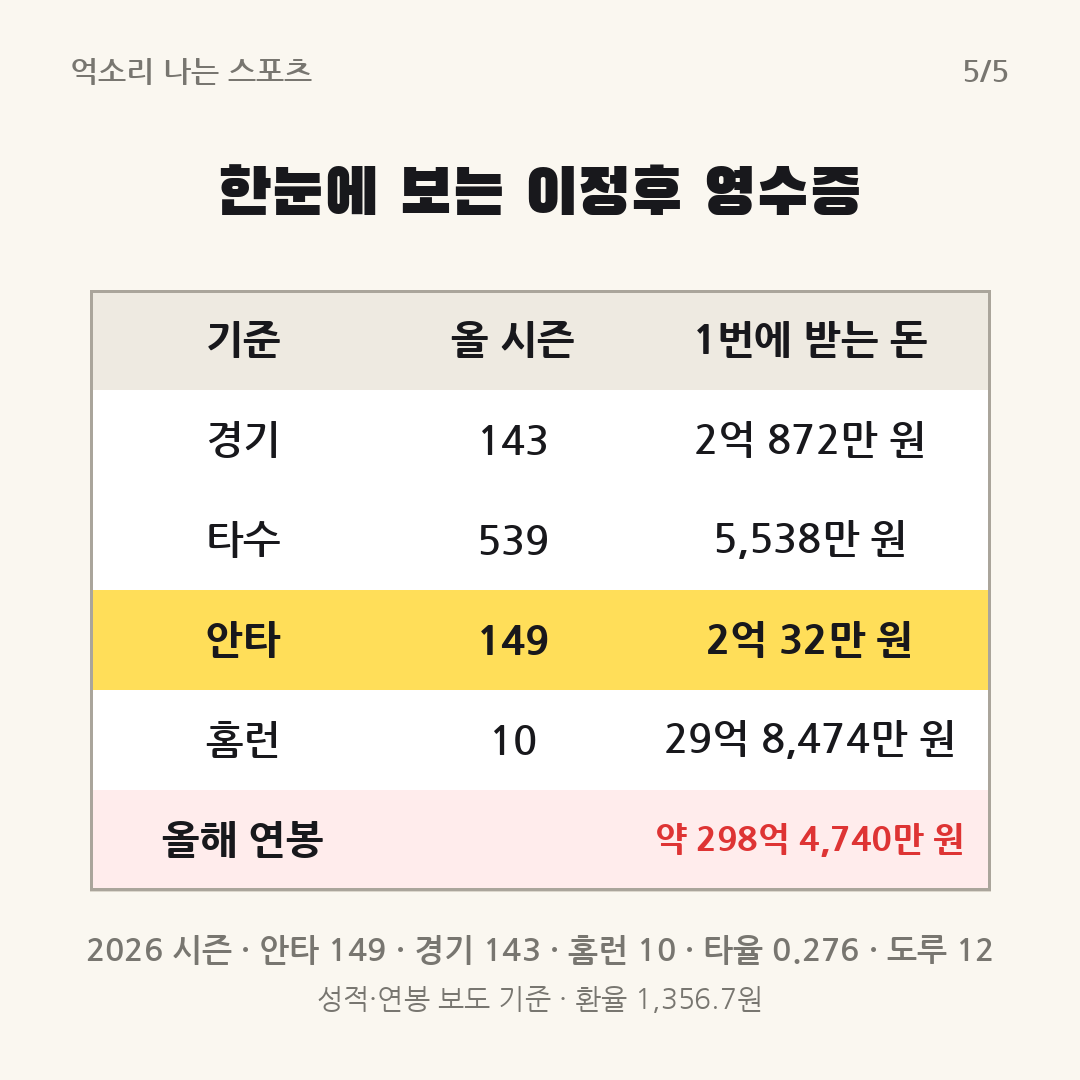
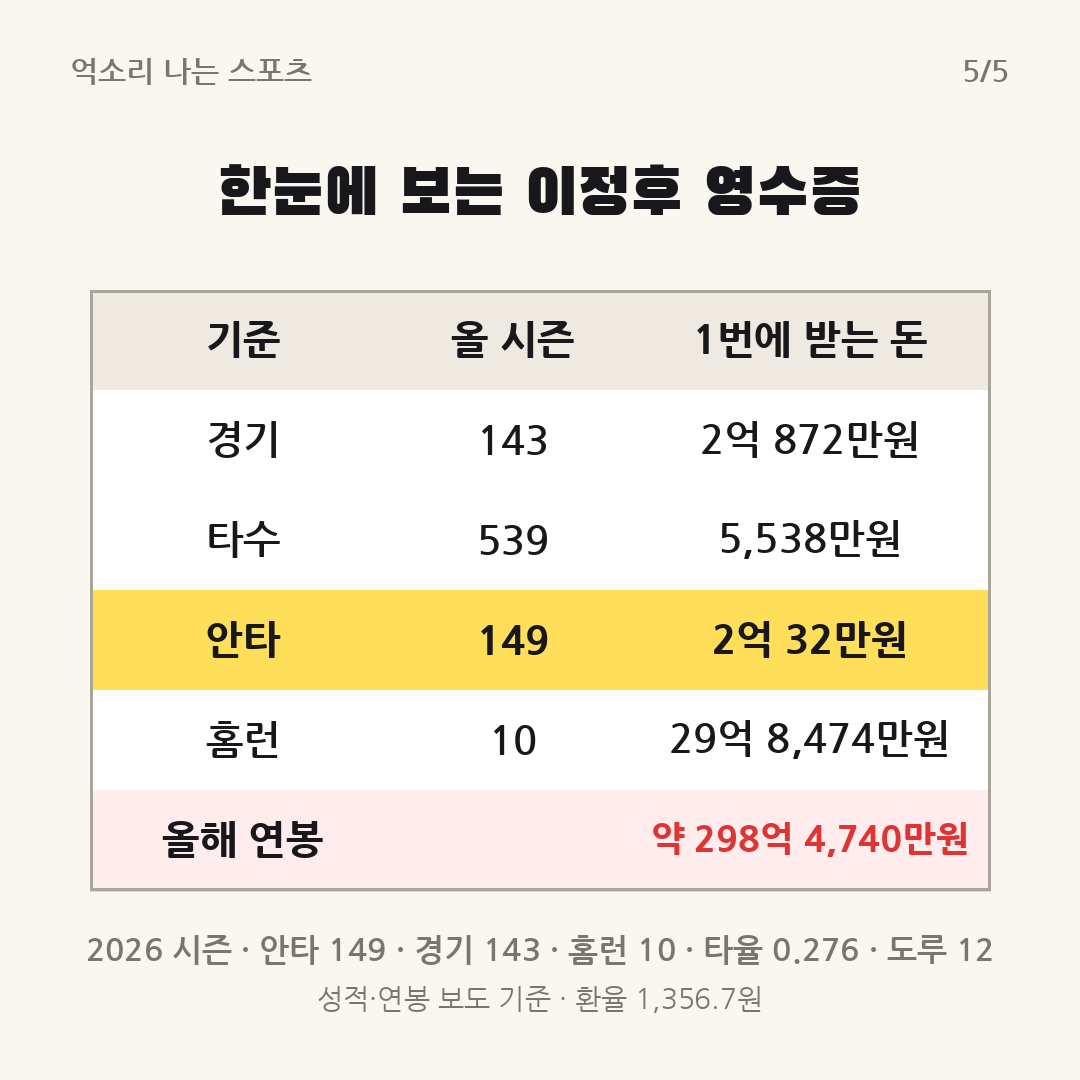
제목: 짧은 이름 + 숫자 후킹 (25자), 금액 붙여 쓰기, 짧은 이름 통일 (대표 결정)
- won(): '9,045만원', '27억원', '2억 32만원' (억원·만원 붙여 씀), 썸네일·카드 전부 적용
- 제목 규칙·check_titles: 짧은 이름으로 시작, 추천 제목에 숫자 필수, 썸네일 금액 되풀이 금지, 25자
- short_name: 대기열·새 주제 스키마·data에 추가, 썸네일·퀴즈·표 카드도 짧은 이름
- 오타니 ★ '오타니 9,496억 계약인데 올해 27억?', 이정후 ★ '이정후 298억, 시즌 끝나도 다 받을까?'
- DECISIONS·스킬·테스트 반영

Claude-Session: https://claude.ai/code/session_01HNJTaMMcXgMjQhv2iW7WGc

diff --git a/content/sample_post.py b/content/sample_post.py
@@ -14,7 +14,7 @@ class FakeNewsHub:
         base = [
             ("2026-09-28", "시즌 결산 기사", "올 시즌 30경기 150이닝 10승 140탈삼진"),
             ("2026-09-20", "중간 기사", "29경기 145이닝 9승 135탈삼진"),
-            ("2026-09-25", "계약 기사", "올해 연봉 20억 원"),
+            ("2026-09-25", "계약 기사", "올해 연봉 20억원"),
             ("2026-09-29", "환율 기사", "원달러 환율 1,350.0원 마감"),
         ]
         return [{"title": f"[예시] {query} {t}", "description": desc, "link": f"https://example.com/{abs(hash(query)) % 999}/{i}",
@@ -59,10 +59,10 @@ class FakeClaude:
                     "[이미지 5_한눈에표: card_table.png]\n\n올 시즌 성적은 이랬어요." +
                     "\n\n생각보다 크죠? 내년에는 어떨까요?\n\n기준: 예시 데이터예요. 실제 선수·실제 숫자가 아니에요.")
             return {"gate_pass": True, "info_gain": "예시: 새로 계산한 숫자",
-                    "titles": [{"text": f"1승에 {win} (예시)", "type": "숫자형"},
-                               {"text": "한 경기에 얼마? (예시)", "type": "질문형"},
-                               {"text": "최저임금과 비교하면 (예시)", "type": "대비형"},
-                               {"text": "몸값 순위 (예시)", "type": "순위형"},
-                               {"text": "부진했는데 연봉은? (예시)", "type": "반전형"}],
+                    "titles": [{"text": f"예시선수 1승에 {win} (예시)", "type": "숫자형"},
+                               {"text": "예시선수 한 경기에 얼마? (예시)", "type": "질문형"},
+                               {"text": "예시선수 최저임금과 비교 (예시)", "type": "대비형"},
+                               {"text": "예시선수 몸값 순위 (예시)", "type": "순위형"},
+                               {"text": "예시선수 20억 받고 10승? (예시)", "type": "반전형"}],
                     "recommended": 5, "body": body, "tags": ["예시선수", "예시"], "cross_compare": "없음 (예시)"}
         raise ValueError("알 수 없는 스키마")

diff --git a/tests/test_content.py b/tests/test_content.py
@@ -95,16 +95,19 @@ class ContentTest(unittest.TestCase):
 
     def test_titles(self):
         from content.autopost import check_titles
-        sheet = "썸네일: 오타니 쇼헤이 / 홈런 1개 / 9,045만원 (추천 제목은 이 기록·금액으로)"
+        sheet = ("제목용 짧은 이름: 오타니\n"
+                 "썸네일: 오타니 쇼헤이 / 홈런 1개 / 9,045만원 (추천 제목에는 이 금액을 다시 쓰지 않는다)")
         good = {"recommended": 1, "tags": ["오타니", "MLB"],
-                "titles": [{"text": "7억 달러 계약인데 올해는 27억?", "type": "반전형"}]
-                + [{"text": "1경기에 1,952만 원", "type": "질문형"}] * 4}
+                "titles": [{"text": "오타니 9,496억 계약인데 올해 27억?", "type": "반전형"}]
+                + [{"text": "오타니 1경기에 얼마 받을까?", "type": "질문형"}] * 4}
         assert check_titles(good, sheet) == []
         bad = {"recommended": 1, "tags": ["MLB"],
-               "titles": [{"text": "오타니 홈런 9,045만 원, 7억 달러 계약인데 충격 연봉?", "type": "숫자형"}] * 5}
+               "titles": [{"text": "오타니 쇼헤이 홈런 9,045만원, 9,496억 계약인데 충격 연봉??", "type": "숫자형"},
+                          {"text": "계약은 크지만 올해는 작다", "type": "반전형"}] * 2 + [{"text": "오타니 올해 연봉", "type": "질문형"}]}
         problems = " / ".join(check_titles(bad, sheet))
-        assert "선수 이름" in problems and "과장어" in problems and "되풀이" in problems and "20자" in problems
-        assert "태그" in problems
+        for word in ("긴 이름", "과장어", "되풀이", "25자", "태그", "짧은 이름(오타니)으로 시작"):
+            assert word in problems, word
+        assert "숫자가 없음" in " / ".join(check_titles({**good, "titles": [{"text": "오타니 올해는 얼마?"}] * 5}, sheet))
 
     def test_won_only(self):
         sheet = "1안타당: 2억 32만 원"

diff --git a/content/receipt.py b/content/receipt.py
@@ -20,17 +20,17 @@ UNITS = [("games", "1경기"), ("at_bats", "1타수"), ("hits", "1안타"), ("ho
 
 
 def won(x: float) -> str:
-    """사람이 읽는 금액: 1억 이상은 'X억 Y만 원', 그 아래는 'Y만 원'."""
+    """사람이 읽는 금액 (억원·만원은 붙여 쓴다, 대표 결정): 'X억 Y만원', 'X억원', 'Y만원'."""
     x = round(x)
     eok, man = divmod(x, 100_000_000)
     man = round(man / 10_000)
     if man == 10_000:
         eok, man = eok + 1, 0
     if eok and man:
-        return f"{eok:,}억 {man:,}만 원"
+        return f"{eok:,}억 {man:,}만원"
     if eok:
-        return f"{eok:,}억 원"
-    return f"{man:,}만 원"
+        return f"{eok:,}억원"
+    return f"{man:,}만원"
 
 
 def units(d: dict) -> list[dict]:
@@ -75,8 +75,8 @@ RED = (214, 40, 40)
 
 
 def short_won(x: float) -> str:
-    """썸네일용: 가장 큰 단위만 (2억 32만 원 → 2억원, 9,045만 원 → 9,045만원)."""
-    return won(x).split(" ")[0] + "원"
+    """썸네일용: 가장 큰 단위만 (2억 32만원 → 2억원, 9,045만원 → 9,045만원)."""
+    return won(x).split(" ")[0].removesuffix("원") + "원"
 
 
 def _cover(photo: Image.Image, w: int) -> Image.Image:
@@ -111,7 +111,7 @@ def thumb_image(d: dict, n: dict, w: int = 1080, photo: Image.Image | None = Non
     l, t, r, b = dr.textbbox((0, 0), tag, font=tf)
     dr.rectangle((x0, w * 0.06, x0 + (r - l) + w * 0.05, w * 0.06 + (b - t) + w * 0.04), fill=RED)
     dr.text((x0 + w * 0.025, w * 0.06 + w * 0.02 - t), tag, font=tf, fill=WHITE)
-    name = d["player"]
+    name = d.get("short_name") or d["player"]  # 짧은 이름 (대표 결정)
     dr.text((x0 - w * 0.005, w * 0.31), name, font=fit(dr, name, "display", int(w * 0.2), w * 0.88), fill=WHITE,
             anchor="lm", stroke_width=int(w * 0.012), stroke_fill=(0, 0, 0))
     head = headline(d)

diff --git a/content/cards.py b/content/cards.py
@@ -79,7 +79,7 @@ def _highlight(d, xy, text, size, color=HL, max_w=W * 0.86):
 
 def quiz_card(d: dict, q: dict, value: float, page: int, total: int, seed: str) -> Image.Image:
     im, dr = _base(page, total)
-    first = f"{d['player']} {q['label']},"
+    first = f"{d.get('short_name') or d['player']} {q['label']},"
     center_text(dr, (W / 2, 250), first, fit(dr, first, "display", 86, W * 0.86), INK)
     center_text(dr, (W / 2, 360), "얼마짜리일까?", font("display", 86), INK)
     opts, _ = options(value, seed)
@@ -139,7 +139,7 @@ def wage_card(n: dict, head: str, page: int, total: int) -> Image.Image | None:
 
 def table_card(d: dict, n: dict, units: list[dict], head: str, page: int, total: int) -> Image.Image:
     im, dr = _base(page, total)
-    title = f"한눈에 보는 {d['player']} 영수증"
+    title = f"한눈에 보는 {d.get('short_name') or d['player']} 영수증"
     center_text(dr, (W / 2, 190), title, fit(dr, title, "display", 64, W * 0.86), INK)
     pad, rh = 90, 100
     tw = W - 2 * pad

diff --git a/posts/2026-09-29-오타니-영수증/post.md b/posts/2026-09-29-오타니-영수증/post.md
@@ -1,17 +1,17 @@
 # 발행 패키지 · 오타니 쇼헤이 2026 연봉 영수증
 
 **상태:** ✅ 자동 검사 통과  
-**게이트:** 통과 — 정보 이득: 지급 유예로 올해 실제 연봉 약 27억 원만 따로 떼어 1경기·1안타·1이닝·1홈런 단가와 최저임금 연봉 배수를 새로 계산한 표  
+**게이트:** 통과 — 정보 이득: 지급 유예로 올해 실제 연봉 약 27억원만 따로 떼어 1경기·1안타·1이닝·1홈런 단가와 최저임금 연봉 배수를 새로 계산한 표  
 **자동 작성:** Claude 초안 → 코드 검사 (고쳐 쓰기 0회) · API 비용 약 $0.16  
-**Claude 검토 (9/29):** 이닝 표기(85.2 = 85⅔) 계산 오류 수정 3,185만 → 3,167만 원, 이름 넣은 다음 글 예고를 댓글 질문으로 교체 (류현진은 올해 연봉 보도가 없어 이번에 건너뜀)
+**Claude 검토 (9/29):** 이닝 표기(85.2 = 85⅔) 계산 오류 수정 3,185만 → 3,167만원, 이름 넣은 다음 글 예고를 댓글 질문으로 교체 (류현진은 올해 연봉 보도가 없어 이번에 건너뜀)
 
 ## 제목 (추천 ★)
 
-1. ★ 9,496억 계약인데 올해는 27억? — 반전형
-2. 홈런 한 방에 최저임금 3.5년 — 대비형
-3. 연봉 쪼개 보니 홈런이 1위 — 순위형
-4. 1이닝 던지면 얼마 받을까? — 질문형
-5. 홈런 1개에 9,045만 원 — 숫자형
+1. ★ 오타니 9,496억 계약인데 올해 27억? — 반전형
+2. 오타니 1경기 뛰면 1,952만원 — 숫자형
+3. 오타니 홈런 = 최저임금 3.5년 — 대비형
+4. 오타니 연봉 쪼개 보니 홈런이 1위 — 순위형
+5. 오타니 1이닝에 얼마 받을까? — 질문형
 
 ## 이미지 (본문 [이미지] 자리에 넣기)
 
@@ -30,32 +30,32 @@
 
 ## 본문 (복사해서 붙여넣기, [이미지 …] 줄은 지우고 그 자리에 사진 넣기)
 
-1경기에 1,952만 원.
+1경기에 1,952만원.
 
-오타니가 올해 실제로 받는 연봉을 경기 수로 나눈 값이에요. 10년 약 9,496억 원짜리 계약이라는 말만 듣고 상상한 금액과는 좀 다르죠?
+오타니가 올해 실제로 받는 연봉을 경기 수로 나눈 값이에요. 10년 약 9,496억원짜리 계약이라는 말만 듣고 상상한 금액과는 좀 다르죠?
 
 [이미지 1_첫문단아래: thumb.png]
 
-올해 오타니가 실제로 받는 연봉은 약 27억 원이에요. 9월 29일 환율로 바꾼 금액이죠.
+올해 오타니가 실제로 받는 연봉은 약 27억원이에요. 9월 29일 환율로 바꾼 금액이죠.
 
-나머지 약 9,225억 원은 2034년부터 받기로 미뤘어요. 지급 유예라고 부르는 방식이에요. 계약 총액은 그대로인데, 올해 통장에 들어오는 돈만 작아진 셈이죠.
+나머지 약 9,225억원은 2034년부터 받기로 미뤘어요. 지급 유예라고 부르는 방식이에요. 계약 총액은 그대로인데, 올해 통장에 들어오는 돈만 작아진 셈이죠.
 
-그럼 이 27억 원을 쪼개면 얼마일까요? 1이닝 값부터 맞혀 보세요.
+그럼 이 27억원을 쪼개면 얼마일까요? 1이닝 값부터 맞혀 보세요.
 
 [이미지 2_퀴즈: card_quiz.png]
 
 [이미지 3_정답: card_answer.png]
 
-1안타에 1,884만 원.
-1경기에 1,952만 원.
-1이닝에 3,167만 원.
-홈런 한 방은 9,045만 원이에요.
+1안타에 1,884만원.
+1경기에 1,952만원.
+1이닝에 3,167만원.
+홈런 한 방은 9,045만원이에요.
 
 이번에도 감이 안 오죠?
 
 [이미지 4_최저임금: card_wage.png]
 
-올해 최저임금으로 1년 꼬박 일하면 약 2,588만 원을 받아요. 시급 10,320원에 월 209시간 기준이에요.
+올해 최저임금으로 1년 꼬박 일하면 약 2,588만원을 받아요. 시급 10,320원에 월 209시간 기준이에요.
 
 오타니가 1경기 뛰면 최저임금 연봉 0.8년치예요. 안타 하나는 0.7년치, 1이닝 던지면 1.2년치고요. 홈런 한 방은 3.5년치예요.
 
@@ -67,11 +67,12 @@
 
 시즌 막판에는 무릎과 이두근 부상으로 흐름이 꺾였어요. 30호 홈런 이후 한동안 홈런도 나오지 않았죠. 그래도 올해 받는 돈은 그대로예요.
 
-홈런 한 방 9,045만 원, 비싸 보이세요 싸 보이세요? 2034년부터 받을 약 9,225억 원은 그때 또 어떤 영수증이 될까요?
+홈런 한 방 9,045만원, 비싸 보이세요 싸 보이세요? 2034년부터 받을 약 9,225억원은 그때 또 어떤 영수증이 될까요?
 
 다음엔 누구 연봉을 쪼개 볼까요? 궁금한 선수를 댓글로 남겨 주세요.
 
 기준: 연봉·계약은 계약 내용 보도, 성적은 2026년 9월 28일 보도, 환율은 2026년 9월 29일 서울 외환시장(1달러 1,356.7원), 최저임금은 2026년 고시(시급 10,320원, 월 209시간) 기준이에요.
+
 
 
 
@@ -109,4 +110,4 @@
 
 ## 실험 기록용
 
-- 추천 제목 유형: 반전형 · 교차 비교: 오타니 올해 연봉을 최저임금 1년치(2,588만 원)와 비교: 1경기 0.8년치, 안타 0.7년치, 1이닝 1.2년치, 홈런 1개 3.5년치 · 이미지 5 · 참고 기사 75건
+- 추천 제목 유형: 반전형 · 교차 비교: 오타니 올해 연봉을 최저임금 1년치(2,588만원)와 비교: 1경기 0.8년치, 안타 0.7년치, 1이닝 1.2년치, 홈런 1개 3.5년치 · 이미지 5 · 참고 기사 75건

diff --git a/posts/2026-10-01-이정후-영수증/post.md b/posts/2026-10-01-이정후-영수증/post.md
@@ -5,11 +5,11 @@
 
 ## 제목 (추천 ★)
 
-1. ★ 시즌 끝났는데 연봉은 다 받을까? — 반전형
-2. 한 타석 서면 최저임금 2년 — 대비형
-3. 연봉 쪼개 보니 홈런이 1위 — 순위형
-4. 1경기 뛰면 얼마 받을까? — 질문형
-5. 1안타에 2억 — 숫자형
+1. ★ 이정후 298억, 시즌 끝나도 다 받을까? — 반전형
+2. 이정후 1경기 뛰면 2억 872만원 — 숫자형
+3. 이정후 한 타석 = 최저임금 2년 — 대비형
+4. 이정후 연봉 쪼개 보니 홈런이 1위 — 순위형
+5. 이정후 홈런 한 방에 얼마 받을까? — 질문형
 
 ## 이미지 (본문 [이미지] 자리에 넣기)
 
@@ -34,7 +34,7 @@
 
 [이미지 1_첫문단아래: thumb.png]
 
-올해 이정후 연봉은 약 298억 원이에요. 9월 29일 환율로 바꾼 금액이죠.
+올해 이정후 연봉은 약 298억원이에요. 9월 29일 환율로 바꾼 금액이죠.
 
 이 돈을 올 시즌 성적으로 하나씩 쪼개 봤어요. 홈런 한 방은 얼마일지 먼저 맞혀 보세요.
 
@@ -42,16 +42,16 @@
 
 [이미지 3_정답: card_answer.png]
 
-1경기에 2억 872만 원.
-1타수에 5,538만 원.
-1안타에 2억 32만 원.
-홈런 한 방은 29억 8천만 원이에요.
+1경기에 2억 872만원.
+1타수에 5,538만원.
+1안타에 2억 32만원.
+홈런 한 방은 29억 8천만원이에요.
 
 숫자가 너무 커서 감이 안 오죠?
 
 [이미지 4_최저임금: card_wage.png]
 
-그래서 최저임금이랑 비교해 봤어요. 올해 최저임금으로 1년 꼬박 일하면 약 2,588만 원을 받아요. 월 209시간 기준이에요.
+그래서 최저임금이랑 비교해 봤어요. 올해 최저임금으로 1년 꼬박 일하면 약 2,588만원을 받아요. 월 209시간 기준이에요.
 
 이정후가 타석에 한 번 들어서면 최저임금 연봉 2.1년치예요. 안타 하나면 7.7년치고요. 홈런 한 방은 115년치예요.
 
@@ -65,7 +65,7 @@
 
 그럼 내년은 어떨까요?
 
-계약서를 보면 이정후는 2023년 12월에 샌프란시스코와 6년 약 1,533억 원(지금 환율 기준)에 사인했어요. 연봉이 가장 높은 해가 바로 올해와 내년이에요. 둘 다 약 298억 원이고요.
+계약서를 보면 이정후는 2023년 12월에 샌프란시스코와 6년 약 1,533억원(지금 환율 기준)에 사인했어요. 연봉이 가장 높은 해가 바로 올해와 내년이에요. 둘 다 약 298억원이고요.
 
 그리고 2027시즌이 끝나면 계약을 스스로 깨고 FA로 나갈 수 있는 권리가 있어요. 내년 성적이 곧 다음 계약 금액이 되는 셈이죠.
 

diff --git a/DECISIONS.md b/DECISIONS.md
@@ -62,6 +62,7 @@
 - **제목 수정: 20자 안팎, 추천 제목은 이름 + 반전·궁금증 한 마디이고 썸네일 금액을 되풀이하지 않는다** (썸네일은 "얼마", 제목은 "왜?"). 경쟁 블로그가 검색용인지 홈판용인지 몰라 길이는 20자로. 직전 "추천 제목 = 이름 + 기록 + 금액" 결정을 대체. 이름은 검색·알림처럼 썸네일 없이 제목만 보이는 곳 때문에 유지. 대표 결정. (money-content-writer 2-1)
 - **제목에서 선수 이름도 뺀다. 20자를 끌어들이는 문구(반전·궁금증)에만 쓴다.** 이름·금액은 썸네일과 본문에 있고, 이름은 태그에 넣어 검색 유입을 일부 보완한다(제목에 이름이 없으면 검색 유입은 줄어듦 — 홈판 집중 방향에 따른 선택). 직전 "이름 유지"를 대체. 대표 결정. (money-content-writer 2-1)
 - **돈은 모두 원화로 쓴다.** 달러 연봉·계약 총액은 코드가 그날 환율로 원화 환산하고("약 9,496억 원"), 제목·본문·카드에 "달러"를 쓰지 않는다. 환율은 마지막 "기준:" 문단에만. 독자가 환율 계산 없이 바로 체감하게. 코드 검사로 강제. 대표 결정. (money-content-writer 2단계)
+- **제목은 짧은 이름 + 숫자 후킹 (25자 이하), 금액은 붙여 쓴다("9,045만원", "27억원"), 이름은 짧은 버전(오타니 쇼헤이 → 오타니)을 제목·썸네일·카드 모두에.** 검색 유입(이름)과 홈판 후킹(숫자 반전)을 함께 잡는다. 썸네일 금액은 제목에 되풀이하지 않는다. 직전 "제목에서 이름 제외"를 대체. 대표 결정. (money-content-writer 2-1)
 ---
 
 ## 미결정 (결정되면 위로 옮긴다)

diff --git a/posts/README.md b/posts/README.md
@@ -4,5 +4,5 @@
 
 | 날짜 | 추천 제목 | 상태 |
 | --- | --- | --- |
-| 2026-10-01 | [시즌 끝났는데 연봉은 다 받을까?](2026-10-01-이정후-영수증/post.md) | ✅ 발행 가능 |
-| 2026-09-29 | [9,496억 계약인데 올해는 27억?](2026-09-29-오타니-영수증/post.md) | ✅ 발행 가능 |
+| 2026-10-01 | [이정후 298억, 시즌 끝나도 다 받을까?](2026-10-01-이정후-영수증/post.md) | ✅ 발행 가능 |
+| 2026-09-29 | [오타니 9,496억 계약인데 올해 27억?](2026-09-29-오타니-영수증/post.md) | ✅ 발행 가능 |
